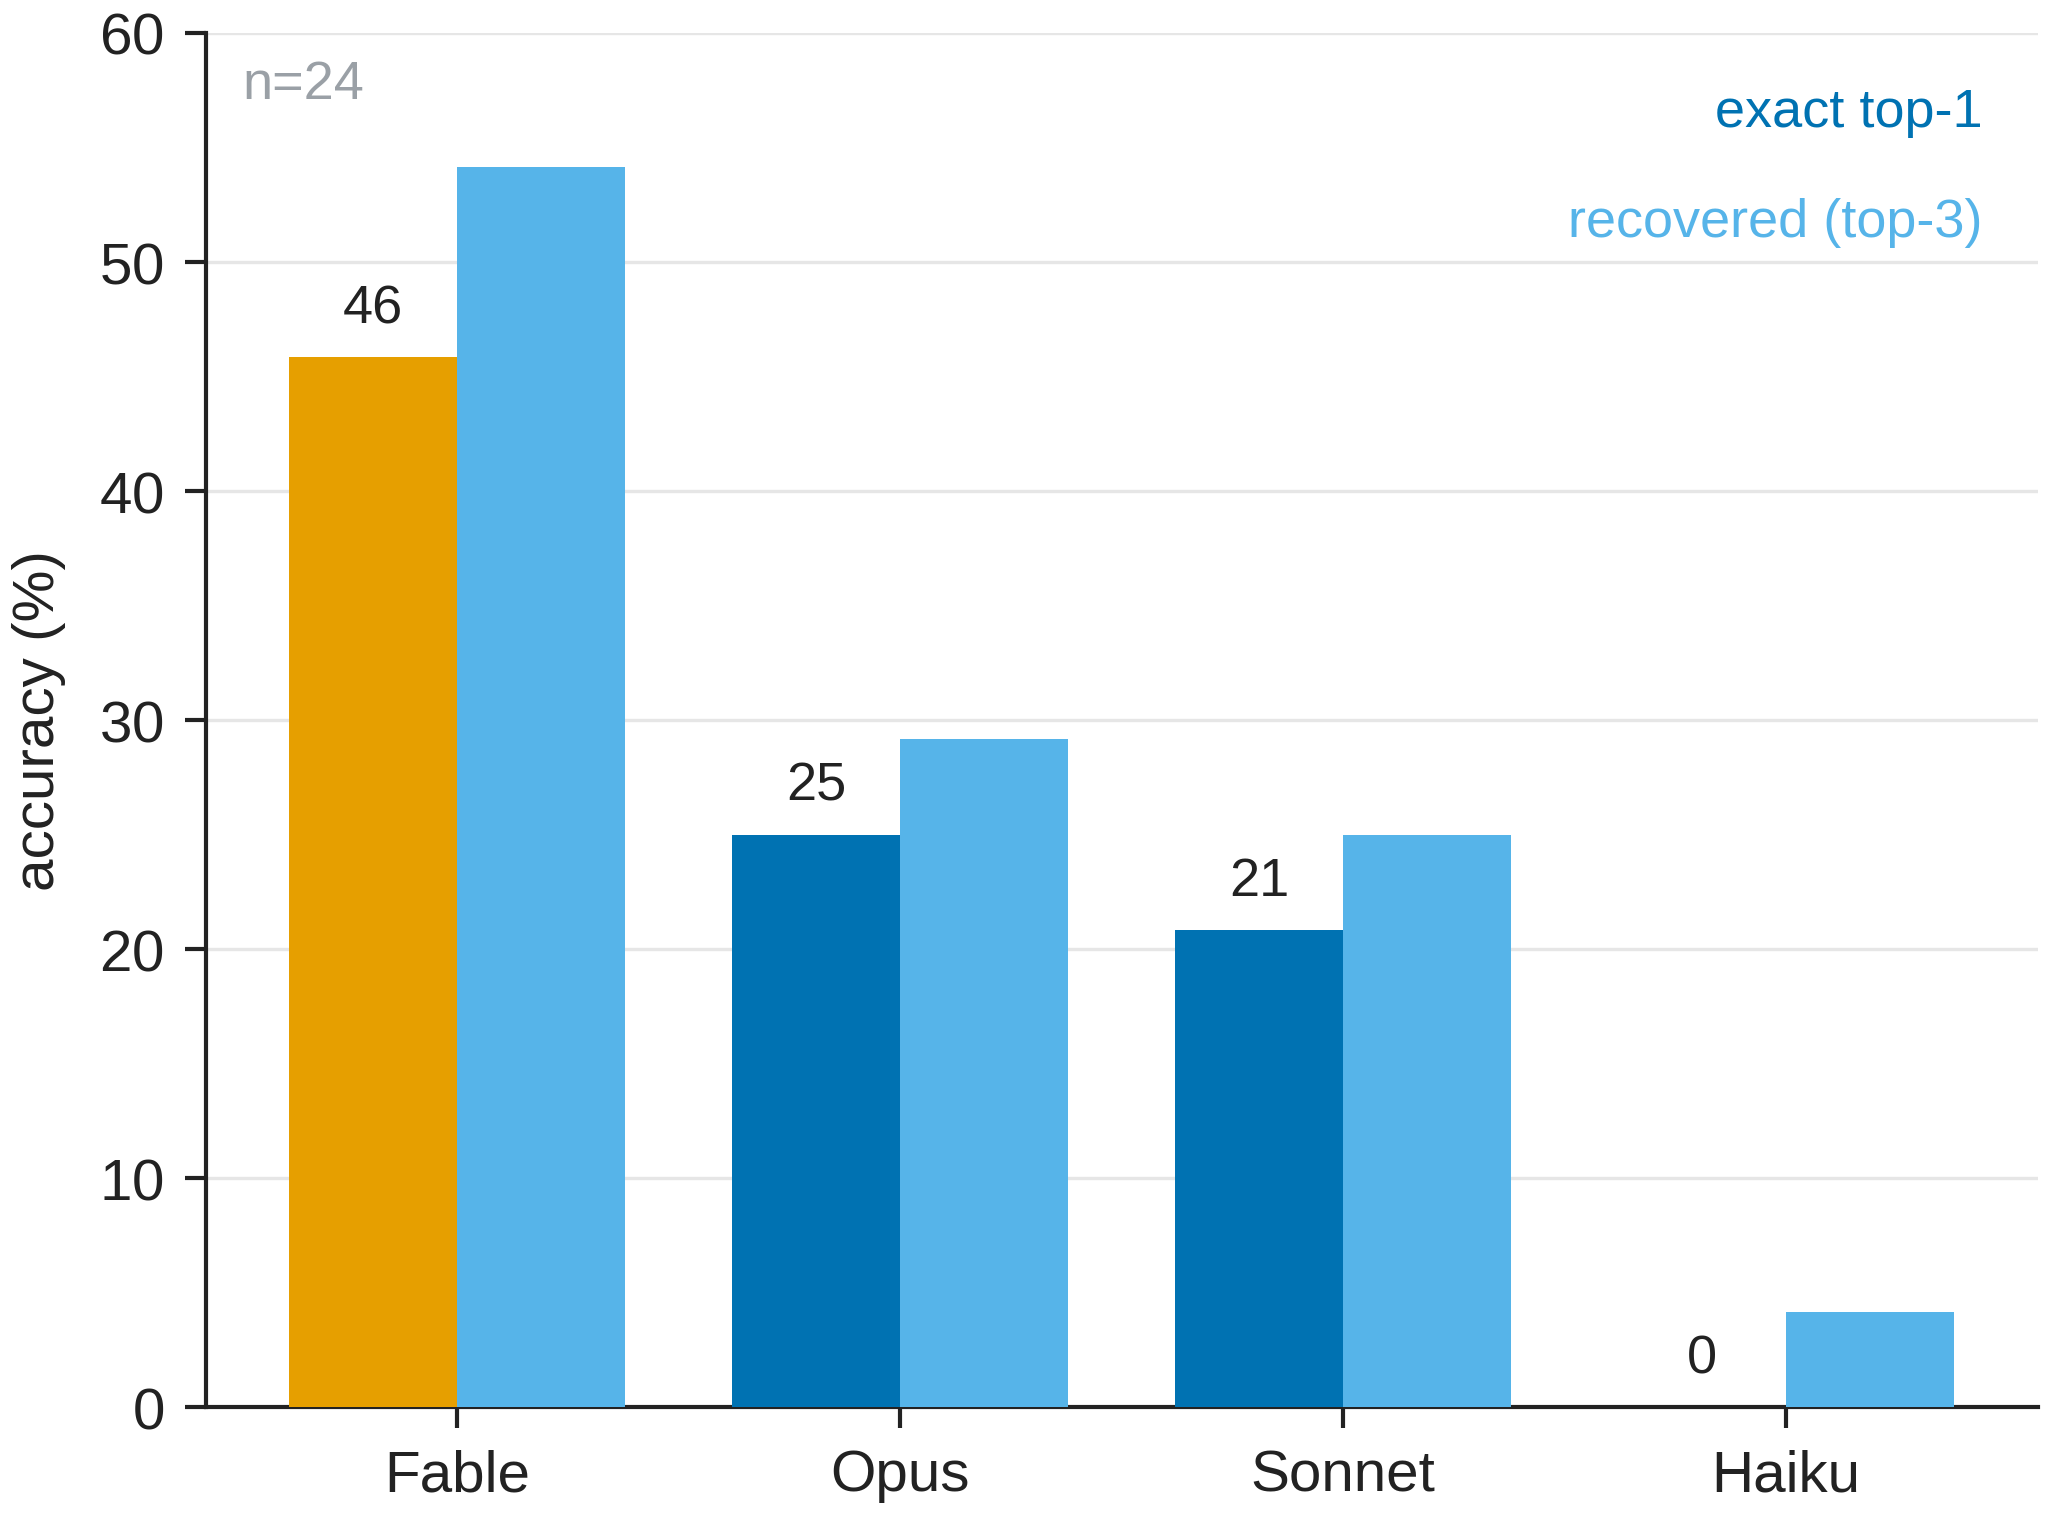
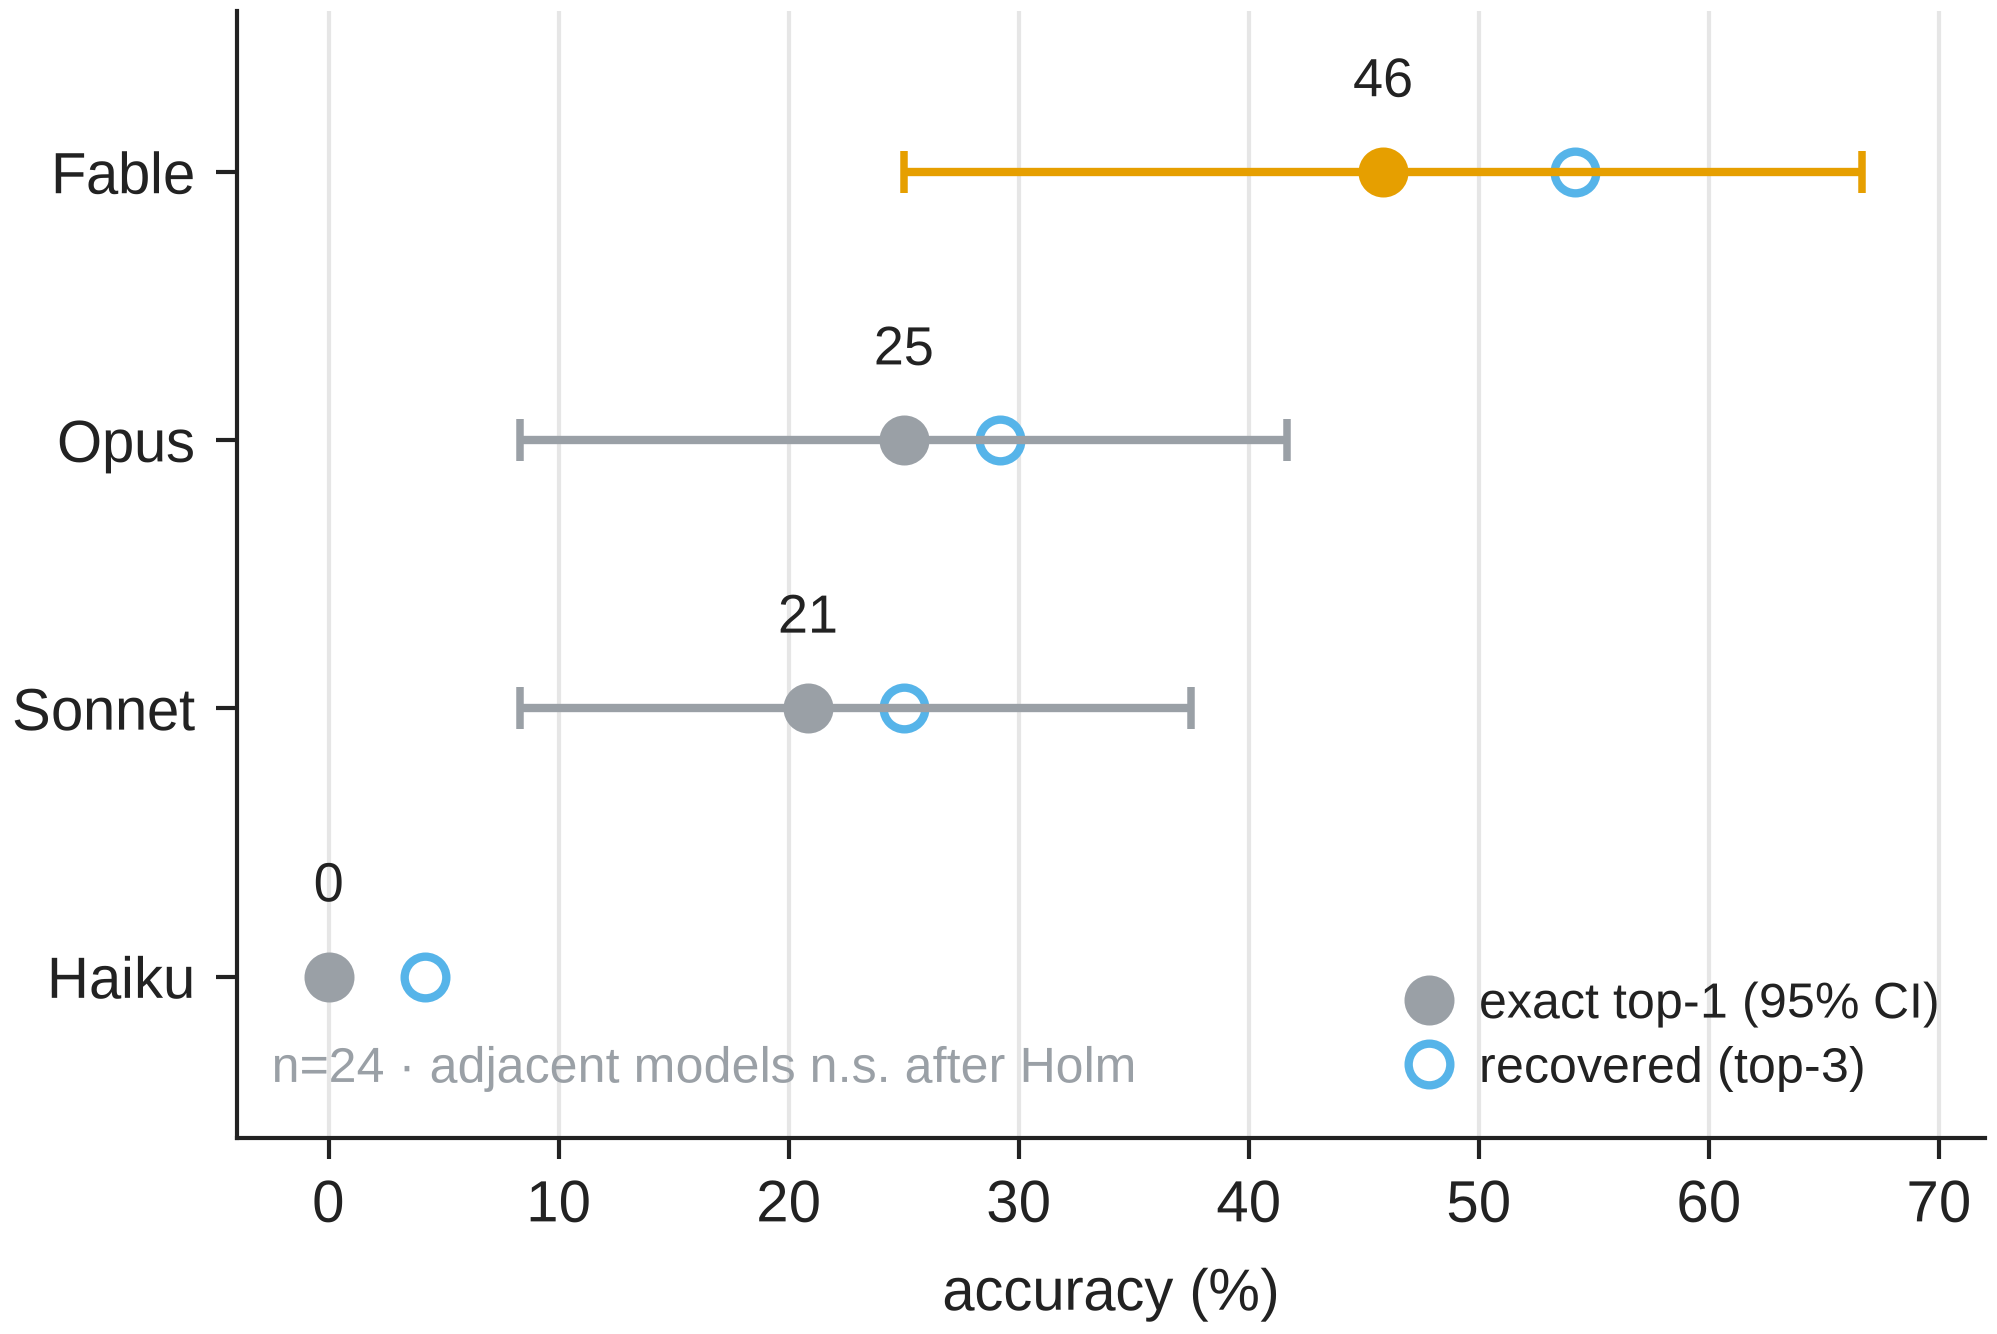
Fig 3 (models): dot + 95% CI forest instead of bars
Plain bars visually asserted Fable>Opus>Sonnet, but the paper's own §4.4 says the n=24
differences are non-significant after Holm. Replace with a bootstrap-95%-CI forest
(exact top-1 filled dots with CIs, recovered as open markers): the CIs overlap heavily,
so the figure now shows the models are not separable rather than implying a ranking.
Fable = ORANGE hero, others neutral grey.

Claude-Session: https://claude.ai/code/session_0181o1WwM8sg4LoTvjqNAP6k

diff --git a/scripts/score_models.py b/scripts/score_models.py
@@ -91,30 +91,38 @@ def main():
     if "--stats" in sys.argv and vec:
         stats(vec)
 
-    if "--fig" in sys.argv and res:
+    if "--fig" in sys.argv and vec:
+        # Dot + bootstrap-95%-CI forest (NOT bars): at n=24 the CIs overlap heavily, so
+        # the plot must show that adjacent models are not separable, not imply a ranking.
         import matplotlib; matplotlib.use("Agg")
         import matplotlib.pyplot as plt
-        import numpy as np
         import figstyle as fs
         fs.apply()
-        order = [m for m in ["Fable", "Opus", "Sonnet", "Haiku"] if m in res]
-        n = len(SUBSET)
-        t1 = [100 * res[m][0] / n for m in order]
-        rc = [100 * res[m][1] / n for m in order]
-        x = np.arange(len(order)); w = 0.38
-        fig, ax = plt.subplots(figsize=(3.6, 2.7)); fs.ygrid(ax)
-        t1cols = [fs.ORANGE if m == "Fable" else fs.BLUE for m in order]
-        b1 = ax.bar(x - w/2, t1, w, color=t1cols, zorder=3)
-        ax.bar(x + w/2, rc, w, color=fs.SKY, zorder=3)
-        fs.barlabels(ax, b1, fmt="{:.0f}", dy=1)
-        ax.set_xticks(x); ax.set_xticklabels(order)
-        ax.set_ylabel("accuracy (%)"); ax.set_ylim(0, 60)
-        ax.text(0.97, 0.96, "exact top-1", transform=ax.transAxes, color=fs.BLUE,
-                fontsize=6.5, va="top", ha="right")
-        ax.text(0.97, 0.88, "recovered (top-3)", transform=ax.transAxes, color=fs.SKY,
-                fontsize=6.5, va="top", ha="right")
-        ax.text(0.02, 0.98, "n=24", transform=ax.transAxes, ha="left", va="top",
-                fontsize=6.5, color=fs.MUTED)  # neutral n; message in caption
+        order = [m for m in ["Fable", "Opus", "Sonnet", "Haiku"] if m in vec]
+        n = len(SUBSET); rng = random.Random(0); B = 10000
+        def _ci(v):
+            p = 100 * sum(v) / n
+            bs = sorted(100 * sum(v[rng.randrange(n)] for _ in range(n)) / n for _ in range(B))
+            return p, bs[int(.025 * B)], bs[int(.975 * B)]
+        t1 = {m: _ci(vec[m]) for m in order}
+        rc = {m: 100 * res[m][1] / n for m in order}
+        ys = list(range(len(order) - 1, -1, -1))          # Fable at top
+        fig, ax = plt.subplots(figsize=(3.5, 2.4))
+        ax.set_axisbelow(True); ax.xaxis.grid(True, color=fs.FAINT, linewidth=0.5)
+        for y, m in zip(ys, order):
+            p, lo, hi = t1[m]
+            col = fs.ORANGE if m == "Fable" else fs.MUTED   # Fable = hero; others neutral
+            ax.errorbar(p, y, xerr=[[p - lo], [hi - p]], fmt="o", ms=5, color=col,
+                        ecolor=col, elinewidth=1.0, capsize=2.5, capthick=0.9, zorder=3)
+            ax.plot(rc[m], y, "o", ms=5, mfc="white", mec=fs.SKY, mew=1.0, zorder=2)
+            ax.text(p, y + 0.24, f"{p:.0f}", ha="center", va="bottom", fontsize=6.5, color=fs.INK)
+        ax.set_yticks(ys); ax.set_yticklabels(order)
+        ax.set_xlabel("accuracy (%)"); ax.set_xlim(-4, 72); ax.set_ylim(-0.6, len(order) - 0.4)
+        ax.plot([], [], "o", ms=5, color=fs.MUTED, label="exact top-1 (95% CI)")
+        ax.plot([], [], "o", ms=5, mfc="white", mec=fs.SKY, mew=1.0, label="recovered (top-3)")
+        ax.legend(loc="lower right", fontsize=6, handlelength=1.0)
+        ax.text(0.02, 0.04, "n=24 · adjacent models n.s. after Holm", transform=ax.transAxes,
+                ha="left", va="bottom", fontsize=6, color=fs.MUTED)
         plt.tight_layout(); plt.savefig("docs/figures/fig5_models.png")
         print("wrote docs/figures/fig5_models.png")
 
